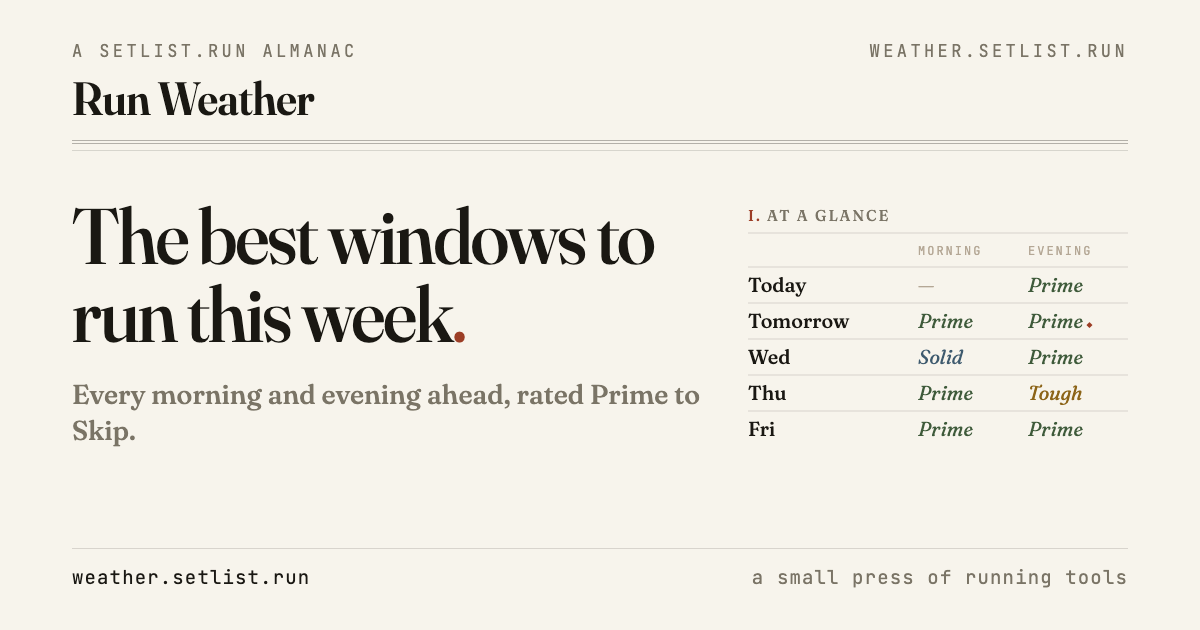
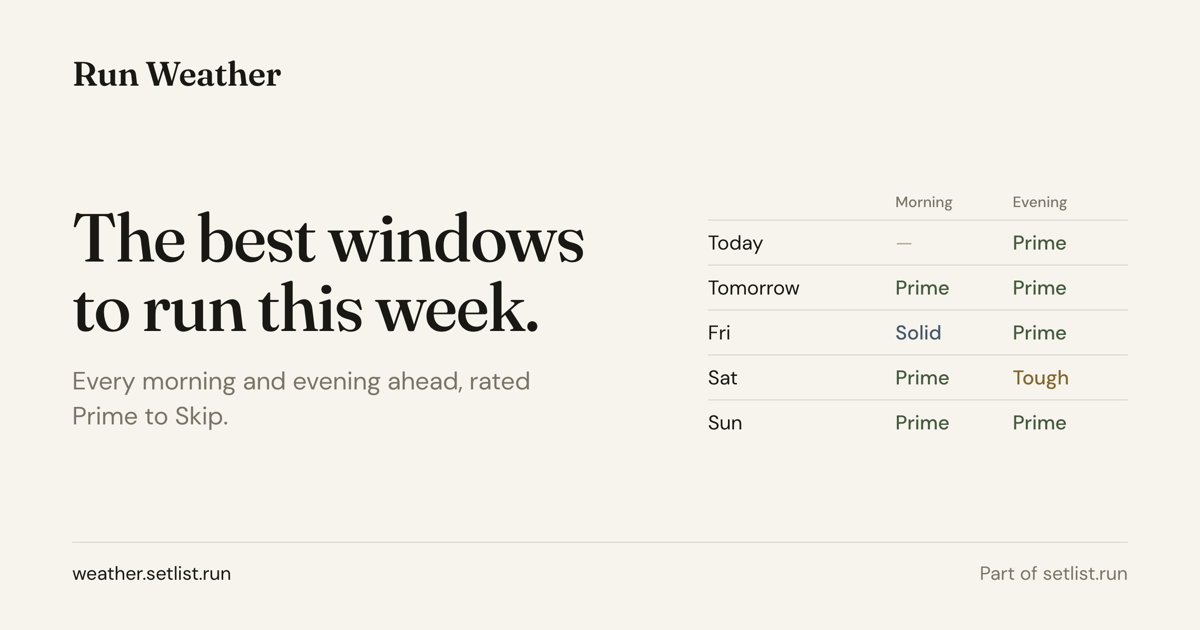
Redo the link preview to the suite standard
Rendered from setlist's scripts/og/og.html: name, headline, one sentence and
the week table, without the dateline, double rule or numbered section.
og:image is now ?v=2 so unfurlers refetch it.

diff --git a/index.html b/index.html
@@ -13,14 +13,14 @@
     <meta property="og:url" content="https://weather.setlist.run">
     <meta property="og:title" content="Run Weather — the best windows to run this week">
     <meta property="og:description" content="Every morning and evening ahead, rated Prime to Skip.">
-    <meta property="og:image" content="https://weather.setlist.run/og.png">
+    <meta property="og:image" content="https://weather.setlist.run/og.png?v=2">
     <meta property="og:image:width" content="1200">
     <meta property="og:image:height" content="630">
     <meta property="og:image:alt" content="Run Weather: the best windows to run this week.">
     <meta name="twitter:card" content="summary_large_image">
     <meta name="twitter:title" content="Run Weather — the best windows to run this week">
     <meta name="twitter:description" content="Every morning and evening ahead, rated Prime to Skip.">
-    <meta name="twitter:image" content="https://weather.setlist.run/og.png">
+    <meta name="twitter:image" content="https://weather.setlist.run/og.png?v=2">
     <link rel="preconnect" href="https://fonts.googleapis.com">
     <link rel="preconnect" href="https://fonts.gstatic.com" crossorigin>
     <link href="https://fonts.googleapis.com/css2?family=Fraunces:ital,opsz,wght,SOFT@0,9..144,300..700,0..100;1,9..144,300..700,0..100&family=DM+Sans:wght@400;500;600;700&family=JetBrains+Mono:wght@400;500&display=swap" rel="stylesheet">
